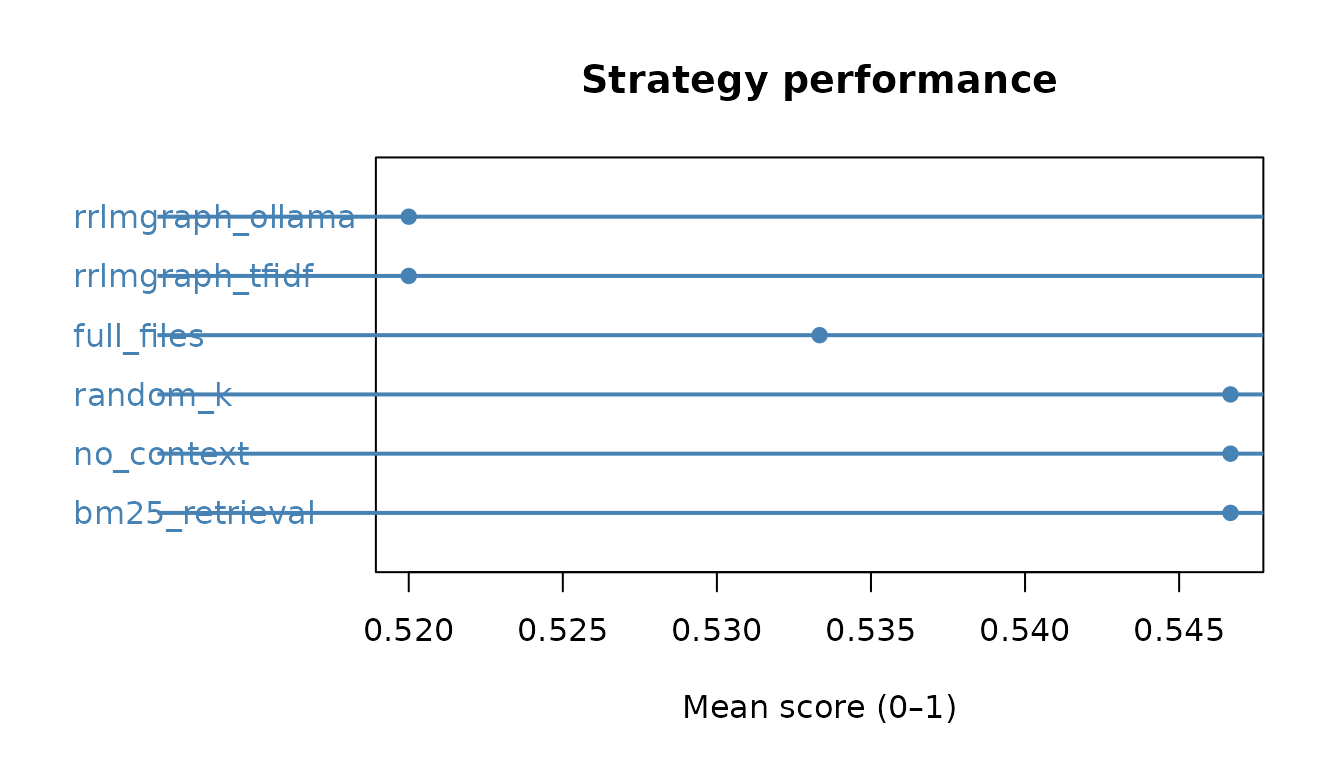
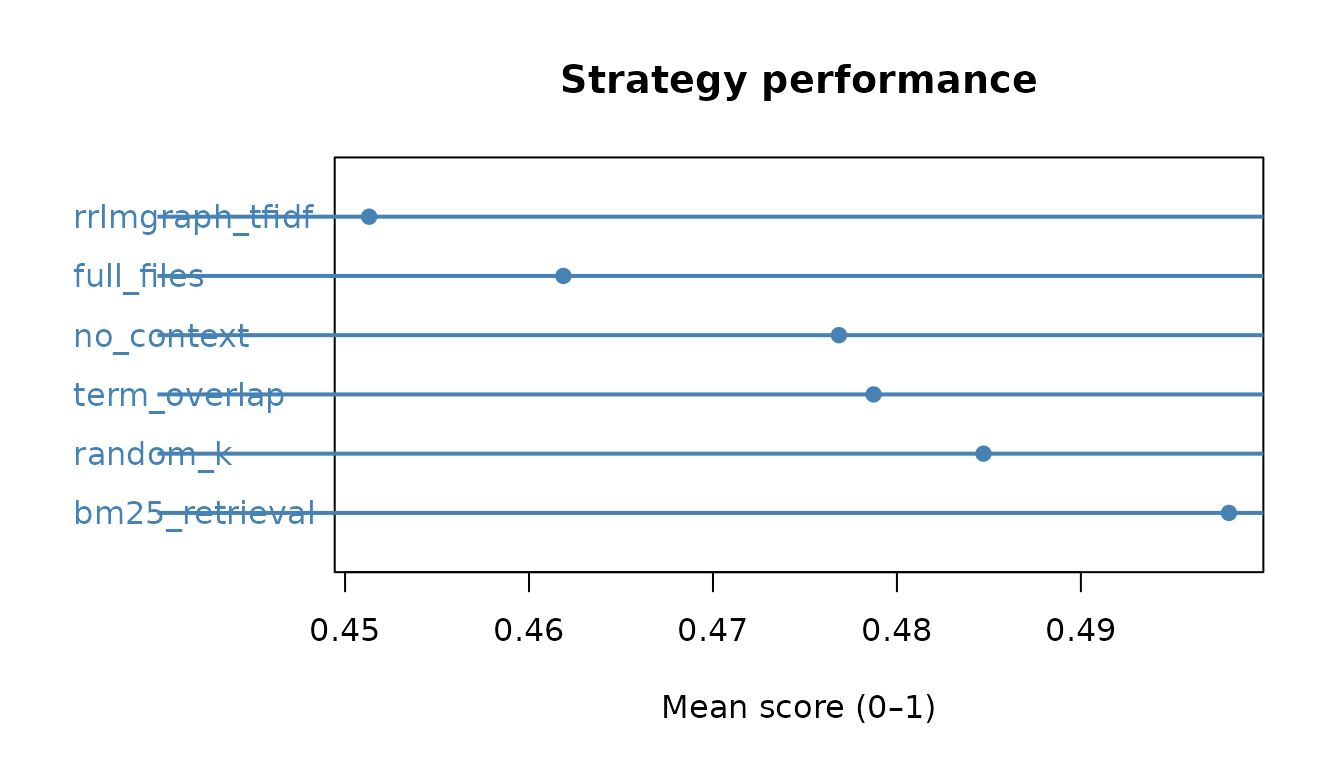
Deploying to gh-pages from @ davidrsch/rrlmgraph-bench@cb6e7a65d8013026a45ed121baa1744f2a9dac3e 🚀

diff --git a/articles/benchmark_report.html b/articles/benchmark_report.html
@@ -142,43 +142,43 @@ automatically every Monday (and on demand) by the
 <td align="left">task_001_fm_mini_ds</td>
 <td align="left">rrlmgraph_tfidf</td>
 <td align="right">1</td>
-<td align="right">0.4</td>
-<td align="right">320</td>
+<td align="right">0.0438938</td>
+<td align="right">314</td>
 </tr>
 <tr class="even">
 <td align="left">task_001_fm_mini_ds</td>
-<td align="left">rrlmgraph_ollama</td>
+<td align="left">full_files</td>
 <td align="right">1</td>
-<td align="right">0.4</td>
-<td align="right">327</td>
+<td align="right">0.0667826</td>
+<td align="right">1890</td>
 </tr>
 <tr class="odd">
 <td align="left">task_001_fm_mini_ds</td>
-<td align="left">full_files</td>
+<td align="left">term_overlap</td>
 <td align="right">1</td>
-<td align="right">0.4</td>
-<td align="right">1585</td>
+<td align="right">0.0606897</td>
+<td align="right">498</td>
 </tr>
 <tr class="even">
 <td align="left">task_001_fm_mini_ds</td>
 <td align="left">bm25_retrieval</td>
 <td align="right">1</td>
-<td align="right">0.4</td>
-<td align="right">1508</td>
+<td align="right">0.0605405</td>
+<td align="right">1848</td>
 </tr>
 <tr class="odd">
 <td align="left">task_001_fm_mini_ds</td>
 <td align="left">no_context</td>
 <td align="right">1</td>
-<td align="right">0.4</td>
-<td align="right">252</td>
+<td align="right">0.0581818</td>
+<td align="right">483</td>
 </tr>
 <tr class="even">
 <td align="left">task_001_fm_mini_ds</td>
 <td align="left">random_k</td>
 <td align="right">1</td>
-<td align="right">0.4</td>
-<td align="right">1534</td>
+<td align="right">0.0567273</td>
+<td align="right">1847</td>
 </tr>
 </tbody>
 </table>
@@ -210,7 +210,7 @@ strategy.</caption>
 <col width="9%">
 <col width="9%">
 <col width="9%">
-<col width="18%">
+<col width="19%">
 <col width="20%">
 </colgroup>
 <thead><tr class="header">
@@ -226,62 +226,62 @@ strategy.</caption>
 <tbody>
 <tr class="odd">
 <td align="left">rrlmgraph_tfidf</td>
-<td align="right">15</td>
-<td align="right">0.520</td>
-<td align="right">0.101</td>
-<td align="right">0.467</td>
-<td align="right">0.560</td>
-<td align="right">526.333</td>
+<td align="right">30</td>
+<td align="right">0.451</td>
+<td align="right">0.240</td>
+<td align="right">0.362</td>
+<td align="right">0.541</td>
+<td align="right">75.167</td>
 <td align="right">0</td>
 </tr>
 <tr class="even">
-<td align="left">rrlmgraph_ollama</td>
-<td align="right">15</td>
-<td align="right">0.520</td>
-<td align="right">0.101</td>
-<td align="right">0.467</td>
-<td align="right">0.573</td>
-<td align="right">524.733</td>
+<td align="left">full_files</td>
+<td align="right">30</td>
+<td align="right">0.462</td>
+<td align="right">0.235</td>
+<td align="right">0.374</td>
+<td align="right">0.550</td>
+<td align="right">1747.567</td>
 <td align="right">0</td>
 </tr>
 <tr class="odd">
-<td align="left">full_files</td>
-<td align="right">15</td>
-<td align="right">0.533</td>
-<td align="right">0.098</td>
-<td align="right">0.493</td>
-<td align="right">0.573</td>
-<td align="right">3312.333</td>
+<td align="left">term_overlap</td>
+<td align="right">30</td>
+<td align="right">0.479</td>
+<td align="right">0.226</td>
+<td align="right">0.395</td>
+<td align="right">0.563</td>
+<td align="right">1944.800</td>
 <td align="right">0</td>
 </tr>
 <tr class="even">
 <td align="left">bm25_retrieval</td>
-<td align="right">15</td>
-<td align="right">0.547</td>
-<td align="right">0.092</td>
-<td align="right">0.493</td>
-<td align="right">0.587</td>
-<td align="right">3121.400</td>
+<td align="right">30</td>
+<td align="right">0.498</td>
+<td align="right">0.209</td>
+<td align="right">0.420</td>
+<td align="right">0.576</td>
+<td align="right">1504.233</td>
 <td align="right">0</td>
 </tr>
 <tr class="odd">
 <td align="left">no_context</td>
-<td align="right">15</td>
-<td align="right">0.547</td>
-<td align="right">0.092</td>
-<td align="right">0.507</td>
-<td align="right">0.587</td>
-<td align="right">41.733</td>
+<td align="right">30</td>
+<td align="right">0.477</td>
+<td align="right">0.229</td>
+<td align="right">0.391</td>
+<td align="right">0.562</td>
+<td align="right">67.433</td>
 <td align="right">0</td>
 </tr>
 <tr class="even">
 <td align="left">random_k</td>
-<td align="right">15</td>
-<td align="right">0.547</td>
-<td align="right">0.092</td>
-<td align="right">0.507</td>
-<td align="right">0.587</td>
-<td align="right">3106.933</td>
+<td align="right">30</td>
+<td align="right">0.485</td>
+<td align="right">0.215</td>
+<td align="right">0.404</td>
+<td align="right">0.565</td>
+<td align="right">1804.800</td>
 <td align="right">0</td>
 </tr>
 </tbody>
@@ -341,23 +341,23 @@ baseline.</caption>
 <tbody>
 <tr class="odd">
 <td align="left">no_context</td>
-<td align="right">81.353</td>
+<td align="right">26.756</td>
 </tr>
 <tr class="even">
-<td align="left">rrlmgraph_ollama</td>
-<td align="right">6.155</td>
-</tr>
-<tr class="odd">
 <td align="left">rrlmgraph_tfidf</td>
-<td align="right">6.136</td>
-</tr>
-<tr class="even">
-<td align="left">random_k</td>
-<td align="right">1.093</td>
+<td align="right">22.718</td>
 </tr>
 <tr class="odd">
 <td align="left">bm25_retrieval</td>
-<td align="right">1.088</td>
+<td align="right">1.253</td>
+</tr>
+<tr class="even">
+<td align="left">random_k</td>
+<td align="right">1.016</td>
+</tr>
+<tr class="odd">
+<td align="left">term_overlap</td>
+<td align="right">0.931</td>
 </tr>
 </tbody>
 </table>
@@ -387,11 +387,11 @@ hallucination.</caption>
 <td align="right">0</td>
 </tr>
 <tr class="even">
-<td align="left">rrlmgraph_ollama</td>
+<td align="left">full_files</td>
 <td align="right">0</td>
 </tr>
 <tr class="odd">
-<td align="left">full_files</td>
+<td align="left">term_overlap</td>
 <td align="right">0</td>
 </tr>
 <tr class="even">
@@ -509,39 +509,39 @@ hallucination.</caption>
 <tbody>
 <tr class="odd">
 <td align="left">bm25_retrieval</td>
-<td align="right">0.56</td>
-<td align="right">0.56</td>
-<td align="right">0.52</td>
+<td align="right">0.493</td>
+<td align="right">0.553</td>
+<td align="right">0.448</td>
 </tr>
 <tr class="even">
 <td align="left">full_files</td>
-<td align="right">0.52</td>
-<td align="right">0.56</td>
-<td align="right">0.52</td>
+<td align="right">0.495</td>
+<td align="right">0.443</td>
+<td align="right">0.447</td>
 </tr>
 <tr class="odd">
 <td align="left">no_context</td>
-<td align="right">0.56</td>
-<td align="right">0.56</td>
-<td align="right">0.52</td>
+<td align="right">0.432</td>
+<td align="right">0.553</td>
+<td align="right">0.445</td>
 </tr>
 <tr class="even">
 <td align="left">random_k</td>
-<td align="right">0.56</td>
-<td align="right">0.56</td>
-<td align="right">0.52</td>
+<td align="right">0.452</td>
+<td align="right">0.553</td>
+<td align="right">0.448</td>
 </tr>
 <tr class="odd">
-<td align="left">rrlmgraph_ollama</td>
-<td align="right">0.52</td>
-<td align="right">0.52</td>
-<td align="right">0.52</td>
+<td align="left">rrlmgraph_tfidf</td>
+<td align="right">0.470</td>
+<td align="right">0.438</td>
+<td align="right">0.445</td>
 </tr>
 <tr class="even">
-<td align="left">rrlmgraph_tfidf</td>
-<td align="right">0.52</td>
-<td align="right">0.52</td>
-<td align="right">0.52</td>
+<td align="left">term_overlap</td>
+<td align="right">0.493</td>
+<td align="right">0.495</td>
+<td align="right">0.448</td>
 </tr>
 </tbody>
 </table>

diff --git a/articles/benchmark_report.md b/articles/benchmark_report.md
@@ -37,14 +37,14 @@ knitr::kable(
 )
 ```
 
-| task_id             | strategy         | trial | score | total_tokens |
-|:--------------------|:-----------------|------:|------:|-------------:|
-| task_001_fm_mini_ds | rrlmgraph_tfidf  |     1 |   0.4 |          320 |
-| task_001_fm_mini_ds | rrlmgraph_ollama |     1 |   0.4 |          327 |
-| task_001_fm_mini_ds | full_files       |     1 |   0.4 |         1585 |
-| task_001_fm_mini_ds | bm25_retrieval   |     1 |   0.4 |         1508 |
-| task_001_fm_mini_ds | no_context       |     1 |   0.4 |          252 |
-| task_001_fm_mini_ds | random_k         |     1 |   0.4 |         1534 |
+| task_id             | strategy        | trial |     score | total_tokens |
+|:--------------------|:----------------|------:|----------:|-------------:|
+| task_001_fm_mini_ds | rrlmgraph_tfidf |     1 | 0.0438938 |          314 |
+| task_001_fm_mini_ds | full_files      |     1 | 0.0667826 |         1890 |
+| task_001_fm_mini_ds | term_overlap    |     1 | 0.0606897 |          498 |
+| task_001_fm_mini_ds | bm25_retrieval  |     1 | 0.0605405 |         1848 |
+| task_001_fm_mini_ds | no_context      |     1 | 0.0581818 |          483 |
+| task_001_fm_mini_ds | random_k        |     1 | 0.0567273 |         1847 |
 
 First 6 rows of benchmark results.
 
@@ -67,14 +67,14 @@ knitr::kable(
 )
 ```
 
-| strategy         |   n | mean_score | sd_score | ci_lo_95 | ci_hi_95 | mean_total_tokens | hallucination_rate |
-|:-----------------|----:|-----------:|---------:|---------:|---------:|------------------:|-------------------:|
-| rrlmgraph_tfidf  |  15 |      0.520 |    0.101 |    0.467 |    0.560 |           526.333 |                  0 |
-| rrlmgraph_ollama |  15 |      0.520 |    0.101 |    0.467 |    0.573 |           524.733 |                  0 |
-| full_files       |  15 |      0.533 |    0.098 |    0.493 |    0.573 |          3312.333 |                  0 |
-| bm25_retrieval   |  15 |      0.547 |    0.092 |    0.493 |    0.587 |          3121.400 |                  0 |
-| no_context       |  15 |      0.547 |    0.092 |    0.507 |    0.587 |            41.733 |                  0 |
-| random_k         |  15 |      0.547 |    0.092 |    0.507 |    0.587 |          3106.933 |                  0 |
+| strategy        |   n | mean_score | sd_score | ci_lo_95 | ci_hi_95 | mean_total_tokens | hallucination_rate |
+|:----------------|----:|-----------:|---------:|---------:|---------:|------------------:|-------------------:|
+| rrlmgraph_tfidf |  30 |      0.451 |    0.240 |    0.362 |    0.541 |            75.167 |                  0 |
+| full_files      |  30 |      0.462 |    0.235 |    0.374 |    0.550 |          1747.567 |                  0 |
+| term_overlap    |  30 |      0.479 |    0.226 |    0.395 |    0.563 |          1944.800 |                  0 |
+| bm25_retrieval  |  30 |      0.498 |    0.209 |    0.420 |    0.576 |          1504.233 |                  0 |
+| no_context      |  30 |      0.477 |    0.229 |    0.391 |    0.562 |            67.433 |                  0 |
+| random_k        |  30 |      0.485 |    0.215 |    0.404 |    0.565 |          1804.800 |                  0 |
 
 Mean score, 95 % CI, token usage, and hallucination rate per strategy.
 
@@ -126,13 +126,13 @@ knitr::kable(ter_df,
 )
 ```
 
-| strategy         |    TER |
-|:-----------------|-------:|
-| no_context       | 81.353 |
-| rrlmgraph_ollama |  6.155 |
-| rrlmgraph_tfidf  |  6.136 |
-| random_k         |  1.093 |
-| bm25_retrieval   |  1.088 |
+| strategy        |    TER |
+|:----------------|-------:|
+| no_context      | 26.756 |
+| rrlmgraph_tfidf | 22.718 |
+| bm25_retrieval  |  1.253 |
+| random_k        |  1.016 |
+| term_overlap    |  0.931 |
 
 Token Efficiency Ratio relative to full_files baseline.
 
@@ -150,14 +150,14 @@ knitr::kable(hall_df,
 )
 ```
 
-| strategy         | hallucination_rate |
-|:-----------------|-------------------:|
-| rrlmgraph_tfidf  |                  0 |
-| rrlmgraph_ollama |                  0 |
-| full_files       |                  0 |
-| bm25_retrieval   |                  0 |
-| no_context       |                  0 |
-| random_k         |                  0 |
+| strategy        | hallucination_rate |
+|:----------------|-------------------:|
+| rrlmgraph_tfidf |                  0 |
+| full_files      |                  0 |
+| term_overlap    |                  0 |
+| bm25_retrieval  |                  0 |
+| no_context      |                  0 |
+| random_k        |                  0 |
 
 Fraction of responses containing at least one hallucination.
 
@@ -256,14 +256,14 @@ if ("task_id" %in% names(all_results)) {
 }
 ```
 
-| strategy         | mini_ds | rpkg | shiny |
-|:-----------------|--------:|-----:|------:|
-| bm25_retrieval   |    0.56 | 0.56 |  0.52 |
-| full_files       |    0.52 | 0.56 |  0.52 |
-| no_context       |    0.56 | 0.56 |  0.52 |
-| random_k         |    0.56 | 0.56 |  0.52 |
-| rrlmgraph_ollama |    0.52 | 0.52 |  0.52 |
-| rrlmgraph_tfidf  |    0.52 | 0.52 |  0.52 |
+| strategy        | mini_ds |  rpkg | shiny |
+|:----------------|--------:|------:|------:|
+| bm25_retrieval  |   0.493 | 0.553 | 0.448 |
+| full_files      |   0.495 | 0.443 | 0.447 |
+| no_context      |   0.432 | 0.553 | 0.445 |
+| random_k        |   0.452 | 0.553 | 0.448 |
+| rrlmgraph_tfidf |   0.470 | 0.438 | 0.445 |
+| term_overlap    |   0.493 | 0.495 | 0.448 |
 
 Mean score disaggregated by fixture project.
 
